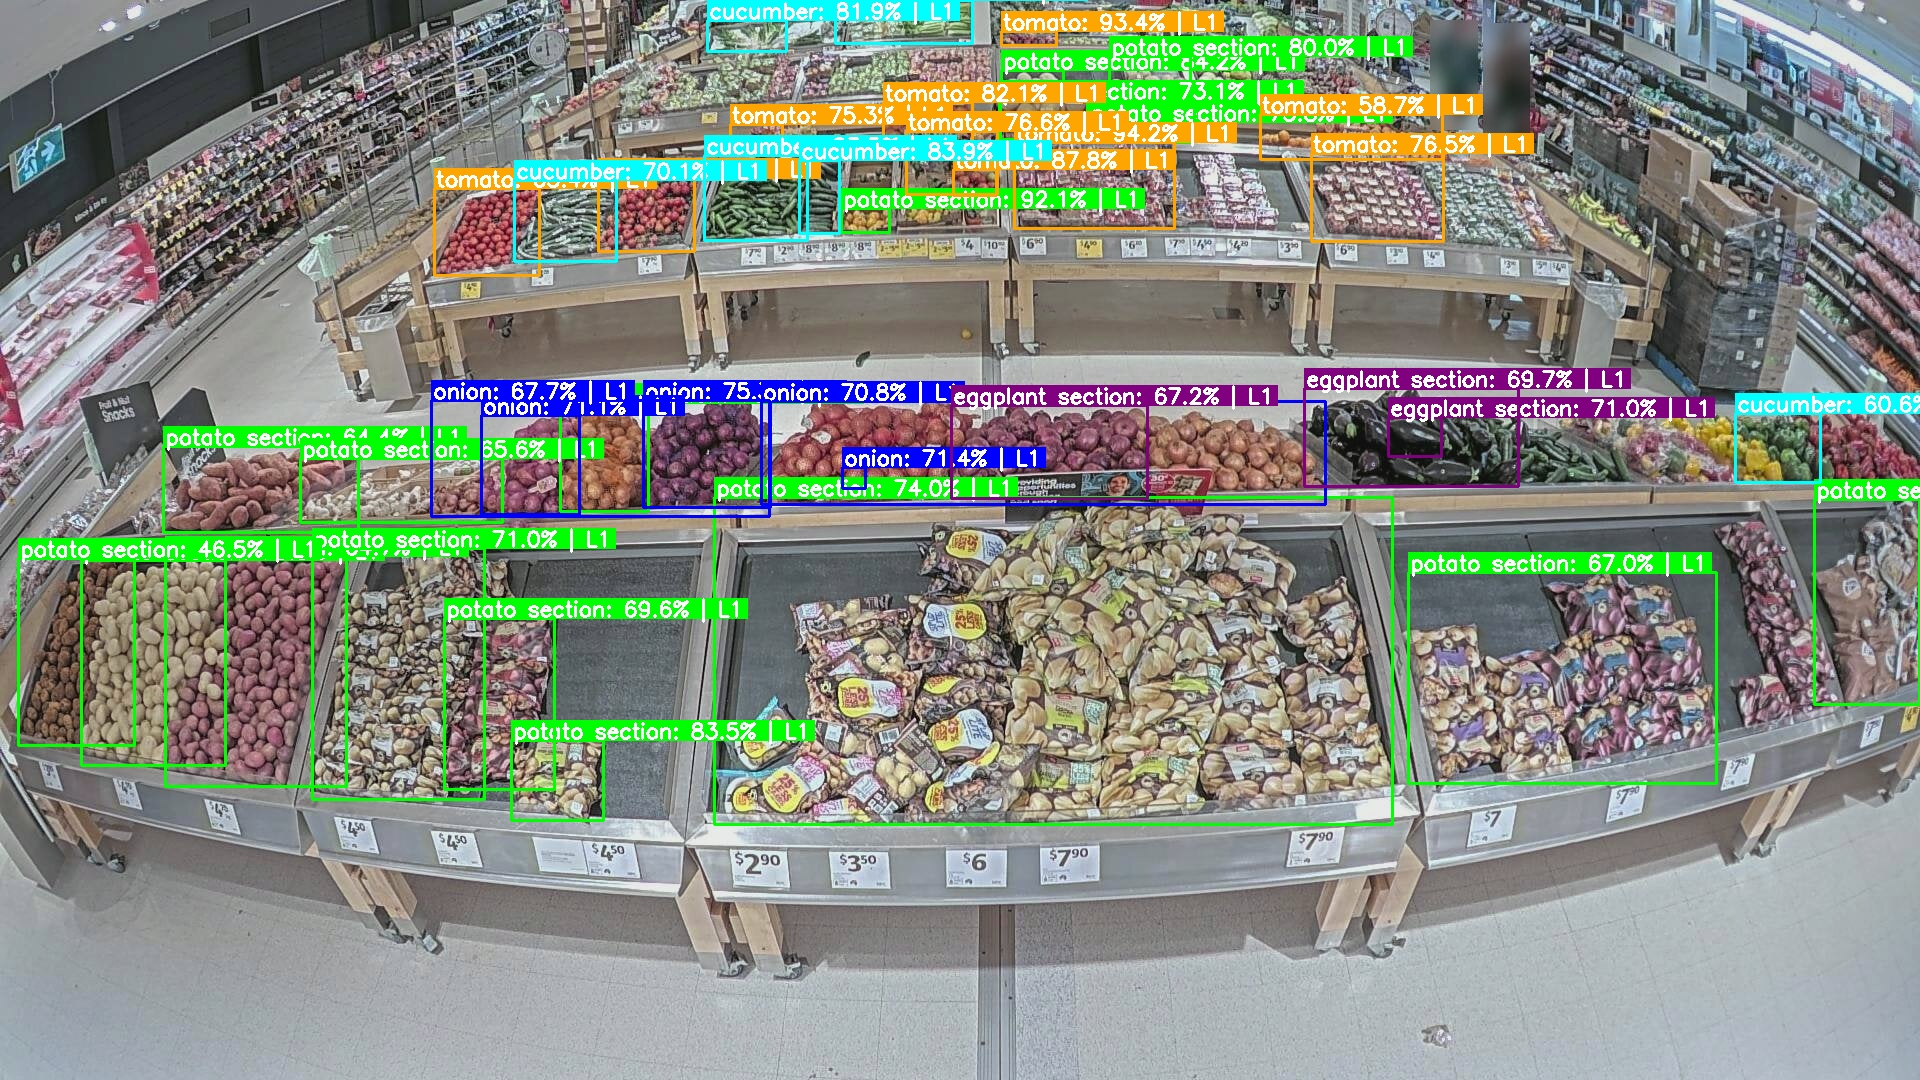
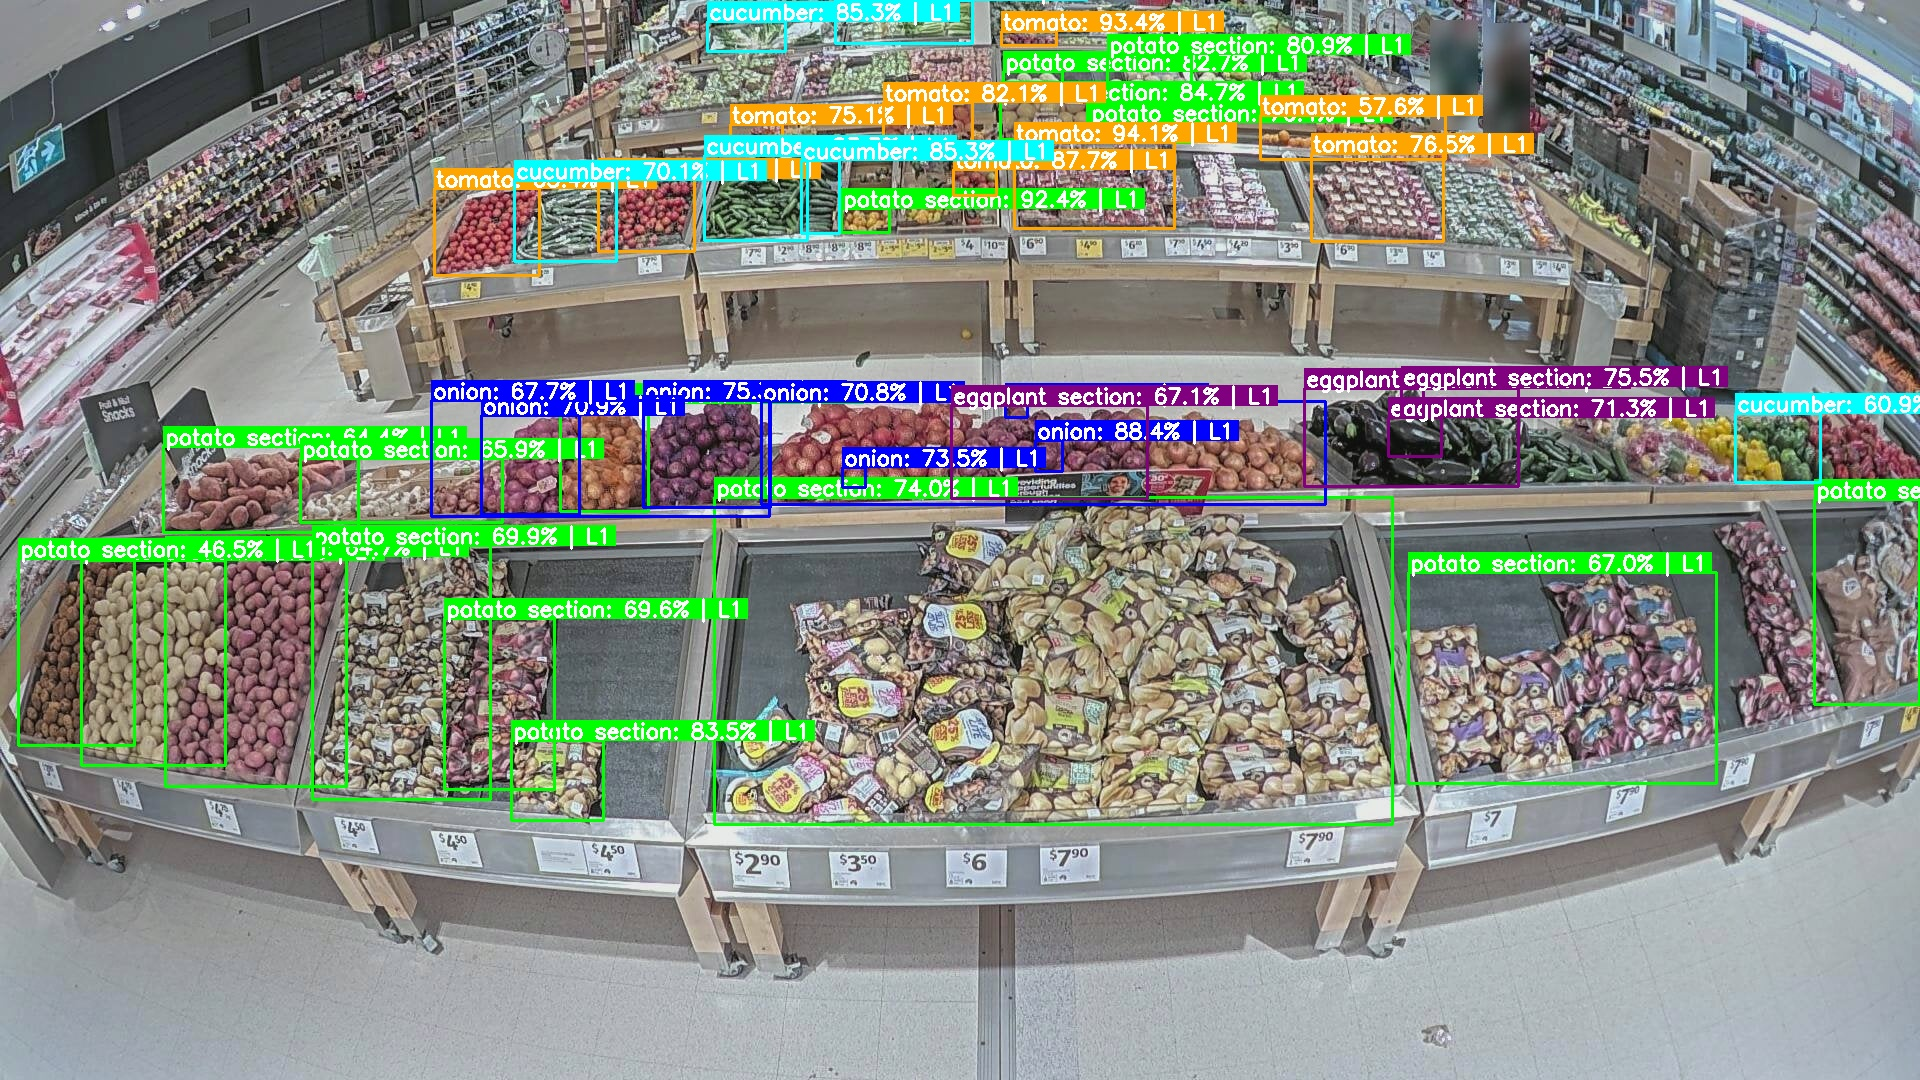
update function

diff --git a/backend/stock_estimation_depth.py b/backend/stock_estimation_depth.py
@@ -6,11 +6,8 @@ class DepthModel:
         self.model_id = model_type
         self.model_depth = None
         self.transform = None
+        self.result_root_seg = None
     def load(self):
-        load_dotenv()
-        hugging_face_token = os.getenv('HF_TOKEN')
-        login(token=hugging_face_token)
-
         self.model_depth = torch.hub.load("intel-isl/MiDaS", self.model_id)
         self.model_depth.eval().to(self.device)
         self.transforms = torch.hub.load("intel-isl/MiDaS", "transforms")
@@ -101,8 +98,130 @@ class DepthModel:
 
         return fullness_pct, layers
 
+
+    def _boxes_iou(self,b1, b2):
+        N, M = b1.size(0), b2.size(0)
+        b1 = b1[:, None, :]
+        b2 = b2[None, :, :] 
+        x1 = torch.max(b1[..., 0], b2[..., 0])
+        y1 = torch.max(b1[..., 1], b2[..., 1])
+        x2 = torch.min(b1[..., 2], b2[..., 2])
+        y2 = torch.min(b1[..., 3], b2[..., 3])
+        inter = (x2 - x1).clamp(min=0) * (y2 - y1).clamp(min=0)
+        a1 = (b1[..., 2]-b1[..., 0]).clamp(min=0) * (b1[..., 3]-b1[..., 1]).clamp(min=0)
+        a2 = (b2[..., 2]-b2[..., 0]).clamp(min=0) * (b2[..., 3]-b2[..., 1]).clamp(min=0)
+        union = a1 + a2 - inter + 1e-6
+        return inter / union
+
+    def _pairwise_center_dist(self, b1, b2):
+        c1 = torch.stack([(b1[:,0]+b1[:,2])/2, (b1[:,1]+b1[:,3])/2], dim=1)  # [N,2]
+        c2 = torch.stack([(b2[:,0]+b2[:,2])/2, (b2[:,1]+b2[:,3])/2], dim=1)  # [M,2]
+        return torch.cdist(c1, c2)  # [N,M]
+
+    def _scale_aware_thr(self, b1, base_px=0.15):
+        w = (b1[:,2]-b1[:,0]).clamp(min=1.0)
+        h = (b1[:,3]-b1[:,1]).clamp(min=1.0)
+        diag = torch.sqrt(w*w + h*h)
+        return base_px * diag  # [N]
+
+    def _binarize_and_morph(self, mask, thr=0.5, dilate_ks=0, close_ks=0):
+        out = (mask >= thr).float()
+        if dilate_ks and dilate_ks > 1:
+            k = dilate_ks if dilate_ks % 2 == 1 else dilate_ks+1
+            pad = k//2
+            out = F.max_pool2d(out.unsqueeze(0).unsqueeze(0), k, stride=1, padding=pad).squeeze()
+        if close_ks and close_ks > 1:
+            k = close_ks if close_ks % 2 == 1 else close_ks+1
+            pad = k//2
+            dil = F.max_pool2d(out.unsqueeze(0).unsqueeze(0), k, stride=1, padding=pad)
+            ero = -F.max_pool2d(-dil, k, stride=1, padding=pad)
+            out = ero.squeeze()
+        return out
+
+    def replace_masks_robust(self,
+        results, results_2,
+        iou_thr=0.1,
+        center_rel=0.15, 
+        src_thresh=0.5,  
+        merge_mode="union", 
+        dilate_ks=3,  
+        close_ks=0    
+    ):
+        r1, r2 = results[0], results_2[0]
+        boxes1 = r1.boxes.xyxy.float()
+        boxes2 = r2.boxes.xyxy.float()
+        if boxes1.numel() == 0 or boxes2.numel() == 0:
+            return results
+
+        masks1 = r1.masks.data 
+        masks2 = r2.masks.data
+        device = masks1.device
+        dtype  = masks1.dtype
+        boxes1, boxes2 = boxes1.to(device), boxes2.to(device)
+        masks2 = masks2.to(device)
+
+        if masks1.shape[-2:] != masks2.shape[-2:]:
+            masks2 = F.interpolate(
+                masks2.unsqueeze(1).float(), size=masks1.shape[-2:], mode="bilinear", align_corners=False
+            ).squeeze(1)
+        IoU = self._boxes_iou(boxes1, boxes2) 
+        best2_for_1 = IoU.argmax(dim=1)
+        best1_for_2 = IoU.argmax(dim=0)
+
+
+        mutual = torch.arange(boxes1.size(0), device=device)
+        is_mutual_best = (best1_for_2[best2_for_1] == mutual)
+        good_iou = IoU[mutual, best2_for_1] >= iou_thr
+        matched = is_mutual_best & good_iou
+        if (~matched).any():
+            d = self._pairwise_center_dist(boxes1, boxes2)
+            idx2 = d.argmin(dim=1) 
+            per_box_thr = self._scale_aware_thr(boxes1, center_rel)
+            ok_center = d[torch.arange(d.size(0), device=device), idx2] <= per_box_thr
+            use_center = (~matched) & ok_center
+            final_idx2 = best2_for_1.clone()
+            final_idx2[use_center] = idx2[use_center]
+            matched = matched | use_center
+        else:
+            final_idx2 = best2_for_1
+
+        if not matched.any():
+            return results 
+
+        new_masks = masks1.clone()
+
+        inds = torch.nonzero(matched, as_tuple=False).flatten()
+        src_sel = masks2[final_idx2[inds]].float()
+        src_sel = torch.stack([self._binarize_and_morph(m, thr=src_thresh, dilate_ks=dilate_ks, close_ks=close_ks) for m in src_sel], dim=0)
+        src_sel = src_sel.to(dtype)
+
+        if merge_mode == "overwrite":
+            new_masks[inds] = src_sel
+        else: 
+            new_masks[inds] = torch.maximum(new_masks[inds].to(dtype), src_sel)
+
+        r1.masks.data = new_masks.detach().clone()
+        return results
     def compute_stock(self, results_seg,img_path):
-        items = self.extract_masks(results_seg)
+        if self.result_root_seg is None:
+            self.result_root_seg = results_seg
+
+        else:
+            mask = torch.zeros(self.result_root_seg[0].masks.data.shape, dtype=torch.bool)
+            self.result_root_seg[0].masks.data = mask
+
+            self.result_root_seg = self.replace_masks_robust(
+                self.result_root_seg, results_seg,
+                iou_thr=0.15,   
+                center_rel=0.20,     
+                src_thresh=0.4,     
+                merge_mode="union", 
+                dilate_ks=3,        
+                close_ks=3
+            )
+            self.result_root_seg[0].show()
+
+        items = self.extract_masks(self.result_root_seg)
         depth_map = self.get_depth(img_path)
         stock_dict = {}
 
@@ -115,7 +234,7 @@ class DepthModel:
                 val = (float(fullness), int(layers))
 
             stock_dict.setdefault(cls, []).append(val)
-
+        self.visualize_stock(img_path, self.result_root_seg, stock_dict, save_path=f"{img_path}_depth_estimation_overlay.jpg")
         return stock_dict
 
     def visualize_stock(self,img_path, results_seg, stock_dict, save_path="stock_overlay.jpg"):
@@ -162,14 +281,7 @@ class DepthModel:
     def print_result(self,stock_dict):
         print("\nStock estimation results (depth-based):")
         for cls, values in stock_dict.items():
+            index = 1
             for fullness, layers in values:
-                print(f"{cls}: {fullness:.1f}% ")
-
-    def cal_probs(self , stock_dict):
-        prob_dic = {}
-        for cls, values in stock_dict.items():
-            total = 0
-            for fullness, layers in values:
-                total += fullness
-            prob_dic[cls] = total / len(values)
-        return prob_dic
+                print(f"{cls} - section {index}: {fullness:.1f}% ")
+                index += 1

diff --git a/main.py b/main.py
@@ -1,36 +1,38 @@
 from backend.imports import *
-from backend.detection_model import *
-from backend.segmentation_model import *
-#from backend.gemini_model import *
-from backend.prob_calculation import *
-from backend.stock_estimation_depth import *
-image = Image.open("../Captone_AI/dataset/test_image.jpg")
-image_path = "../Captone_AI/dataset/test_image.jpg"
+from backend.model_cache import get_model
+
+image_arr =  ['T0', 'T1']
 class_names = 'potato section . onion . eggplant section . tomato . cucumber .'
 
 if __name__ == "__main__":
     #Initualize and load model
-    detection_model = DetectionModel()
-    segmentation_model = SegmentationModel("sam2.1_l.pt")
-    depth_model = DepthModel()
-    #gemini_model = Gemini()
+    detection_model = get_model("detection")
+    segmentation_model = get_model("segmentation")
+    depth_model = get_model("depth")
 
-    detection_model.load_model()
-    segmentation_model.load()
-    depth_model.load()
+    for name in image_arr:
+        image_path = f"../Freshtify/dataset/{name}.jpg"
+        image = Image.open(image_path)
+        xyxy, labels, scores = detection_model.detect(image, class_names)
+        results_seg = segmentation_model.segment(image_path, xyxy, labels)
+        stock_dict = depth_model.compute_stock(results_seg,image_path)
+        print(stock_dict)
+        print(f"Image: {name}")
+        print(f"Length stock dict {len(stock_dict)}\n")
+        depth_model.print_result(stock_dict)
+    # # Detection
+    # xyxy, labels, scores = detection_model.detect(image, class_names)
 
-    # Detection
-    xyxy, labels, scores = detection_model.detect(image, class_names)
+    # #Segmentation
+    # results_seg = segmentation_model.segment(image_path, xyxy, labels)
 
-    #Segmentation
-    results_seg = segmentation_model.segment(image_path, xyxy, labels)
+    # # Compute fullness (depth-based)
+    # stock_dict = depth_model.compute_stock(results_seg,image_path)
 
-    # Compute fullness (depth-based)
-    stock_dict = depth_model.compute_stock(results_seg,image_path)
+    # # Visualize
+    # # depth_model.visualize_stock(image_path, results_seg, stock_dict, save_path="depth_estimation_overlay.jpg")
 
-    # Visualize
-    depth_model.visualize_stock(image_path, results_seg, stock_dict, save_path="depth_estimation_overlay.jpg")
-
-    #Calculate probs
-    probs = depth_model.cal_probs(stock_dict)
-    print(probs)
+    # # #Calculate probs
+    # # probs = depth_model.cal_probs(stock_dict)
+    # # print(probs)
+    # print(stock_dict)

diff --git a/backend/model_cache.py b/backend/model_cache.py
@@ -1,0 +1,24 @@
+
+from backend.detection_model import *
+from backend.segmentation_model import *
+#from backend.gemini_model import *
+from backend.prob_calculation import *
+from backend.stock_estimation_depth import *
+
+_models = {}
+
+def get_model(name):
+    if name not in _models:
+        if name == "detection":
+            model = DetectionModel()
+            model.load_model()
+        elif name == "segmentation":
+            model = SegmentationModel("sam2.1_l.pt")
+            model.load()
+        elif name == "depth":
+            model = DepthModel()
+            model.load()
+        else:
+            raise ValueError(f"Unknown model: {name}")
+        _models[name] = model
+    return _models[name]

diff --git a/backend/detection_model.py b/backend/detection_model.py
@@ -18,7 +18,7 @@ class DetectionModel:
         self.model_dec = AutoModelForZeroShotObjectDetection.from_pretrained(self.model_id).to(self.device)
         print("Loaded model sucessfully")
 
-    def show_gd_results(self ,img, results, score_thr = 0.2):
+    def show_gd_results(self ,img, results, score_thr = 0):
         if isinstance(img, str):
             img = Image.open(img).convert("RGB")
         elif isinstance(img, torch.Tensor):

diff --git a/backend/imports.py b/backend/imports.py
@@ -20,3 +20,4 @@ from google.genai import types
 from google.genai.errors import ClientError
 from huggingface_hub import login
 from ultralytics import SAM
+import torch.nn.functional as F
